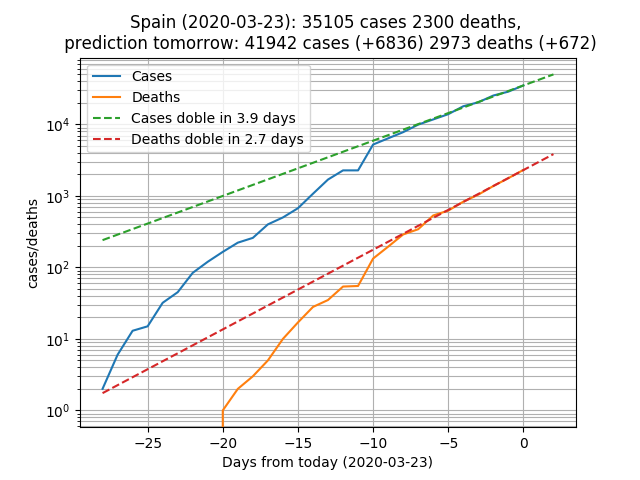
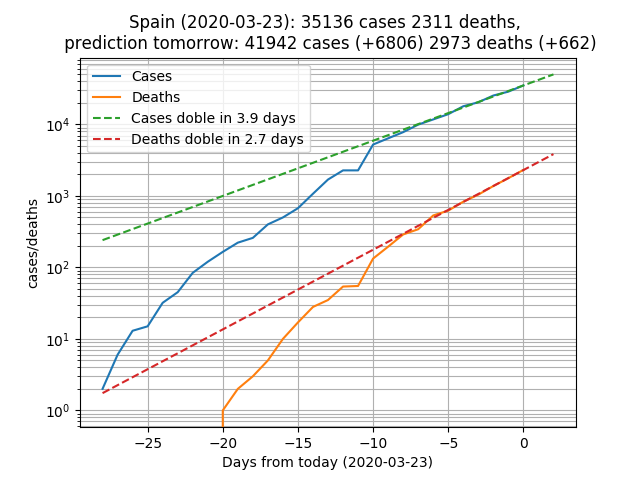
debug

Changed region(s): [[0.1875, 0.0312, 0.8125, 0.0938], [0.8438, 0.0625, 0.9375, 0.125]]

diff --git a/scripts/my_analysis.py b/scripts/my_analysis.py
@@ -90,8 +90,8 @@ def analyze_country(country1):
 
      t11 = numpy.concatenate((t1,numpy.array([1,2])))
 
-     todayC = expo2(0,poptC[0], poptC[1])
-     todayD = expo2(0,poptD[0], poptD[1])
+     todayC = c1[-1]
+     todayD = d1[-1]
      tomorrowC = expo2(1,poptC[0], poptC[1])
      tomorrowD = expo2(1,poptD[0], poptD[1])
 
